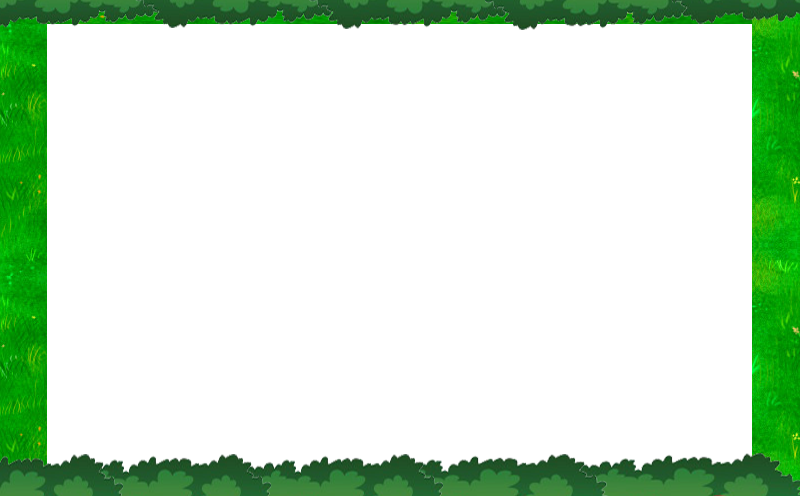
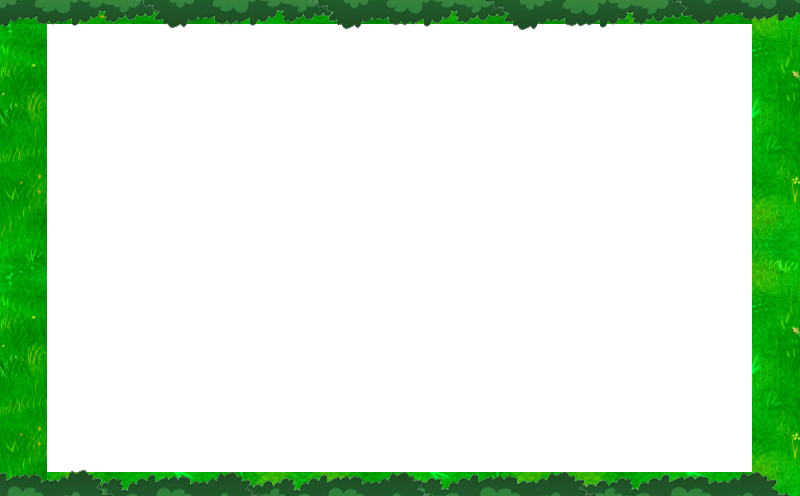
update obstacle // change some photo

Changed region(s): [[0.0, 0.9073, 1.0, 1.0]]

diff --git a/src/sharedObject/RenderableHolder.java b/src/sharedObject/RenderableHolder.java
@@ -15,6 +15,9 @@ public class RenderableHolder {
 	private static final RenderableHolder instance = new RenderableHolder();
 	
 	//Images
+	//Floor
+	public static Image floor_Image;
+	
 	//Player
 	public static Image player0_sprite_Image;
 	public static Image player1_sprite_Image;
@@ -71,6 +74,9 @@ public class RenderableHolder {
 	//FryingPan
 	public static Image fryingpan_infront_Image;
 	public static Image fryingpan_between_Image;
+	
+	//Obstacle
+	public static Image obstacle_Image;
 	
 	//FoodCounter
 	public static Image foodcounter_infront_Image;
@@ -167,9 +173,13 @@ public class RenderableHolder {
 	public static void loadResource() {
 		String p = "picture/";
 		
+		//Floor
+		floor_Image = new Image(ClassLoader.getSystemResource(p+"floor.png").toString());
+		
 		//Player
 		player0_sprite_Image = new Image(ClassLoader.getSystemResource(p+"player0_sprite.png").toString());
 		player1_sprite_Image = new Image(ClassLoader.getSystemResource(p+"player1_sprite.png").toString());
+		
 		//Bin
 		bin_infront_Image = new Image(ClassLoader.getSystemResource(p+"bin_infront.png").toString());
 		bin_between_Image = new Image(ClassLoader.getSystemResource(p+"bin_between.png").toString());
@@ -224,6 +234,9 @@ public class RenderableHolder {
 		fryingpan_infront_Image = new Image(ClassLoader.getSystemResource(p+"fryingpan_infront.png").toString());
 		fryingpan_between_Image = new Image(ClassLoader.getSystemResource(p+"fryingpan_between.png").toString());
 	
+		//Obstacle
+		obstacle_Image = new Image(ClassLoader.getSystemResource(p+"obstacle.png").toString());
+		
 		//FoodCounter
 		foodcounter_infront_Image = new Image(ClassLoader.getSystemResource(p+"foodcounter_infront.png").toString());
 		foodcounter_between_Image = new Image(ClassLoader.getSystemResource(p+"foodcounter_between.png").toString());

diff --git a/src/screen/GameScreen.java b/src/screen/GameScreen.java
@@ -36,9 +36,6 @@ public class GameScreen {
 	
 	public static int gametime;
 	
-	private static String image_path = ClassLoader.getSystemResource("picture/floortest1.png").toString();
-	private static Image floortest = new Image(image_path);
-	
 	public GameScreen(Stage primaryStage) {
 		this.primaryStage = primaryStage;
 		//---------------------------------------------------
@@ -58,7 +55,7 @@ public class GameScreen {
 		VBox leftBox = new VBox(4);
 		
 		this.gameCanvas = new Canvas(800,496);
-		this.gamegc = gameCanvas.getGraphicsContext2D();
+		gamegc = gameCanvas.getGraphicsContext2D();
 		
 		
 		StackPane orderPane = new StackPane();
@@ -152,7 +149,7 @@ public class GameScreen {
 		//floor
 		for (int i=0; i < height; i++) {
 			for (int j=0; j < width; j++) {
-				gamegc.drawImage(floortest,draw_origin_x+(j)*pixel,draw_origin_y+(i)*pixel);
+				gamegc.drawImage(RenderableHolder.floor_Image,draw_origin_x+(j)*pixel,draw_origin_y+(i)*pixel);
 			}
 		}
 		
@@ -176,7 +173,7 @@ public class GameScreen {
 		} else if (10 <= gametime && gametime <= 99) {
 			timegc.fillText(Integer.toString(gametime), 76, 158);
 		} else if (0 <= gametime && gametime <= 9){
-			timegc.setFill(Color.RED);
+			timegc.setFill(Color.PINK);
 			timegc.fillText(Integer.toString(gametime), 84, 158);
 		}
 	}

diff --git a/src/entity/Obstacle.java b/src/entity/Obstacle.java
@@ -1,11 +1,34 @@
 package entity;
 
 import entity.base.Block;
-import entity.base.Entity;
+import javafx.scene.canvas.GraphicsContext;
 import logic.Sprites;
+import screen.GameScreen;
+import sharedObject.RenderableHolder;
 
 public class Obstacle extends Block{
 	public char getSymbol() {
 		return Sprites.Obstacle;
 	}
+
+	@Override
+	public int getZ() {
+		return getY()*3;
+	}
+
+	@Override
+	public void draw(GraphicsContext gc) {
+		int pixel = GameScreen.pixel;
+		int x = GameScreen.draw_origin_x+this.getX()*pixel;
+		int y = GameScreen.draw_origin_y+this.getY()*pixel;
+		
+		gc.drawImage(RenderableHolder.obstacle_Image, x, y-6);
+	}
+
+	@Override
+	public boolean isVisible() {
+		return true;
+	}
+	
+	
 }

diff --git a/src/logic/GameMap.java b/src/logic/GameMap.java
@@ -293,12 +293,10 @@ public class GameMap {
 	}
 
 	
-	
-	
 	public void updateIsAnyBlockDownward() {
 		for (int i = 0; i < height-1 ; i++) {
 			for (int j = 0; j < width; j++) {
-				if (!cellmap[i+1][j].isBlockEmpty() && !cellmap[i][j].isBlockEmpty()) {
+				if (!cellmap[i+1][j].isBlockEmpty() && !cellmap[i][j].isBlockEmpty() && !(cellmap[i+1][j].getBlock() instanceof Obstacle)) {
 					//if tihs block is not empty and below block is also not empty
 					//so this block (isanyblockdownward = true) )(used for rendering image)
 					cellmap[i][j].getBlock().setAnyBlockDownward(true);
